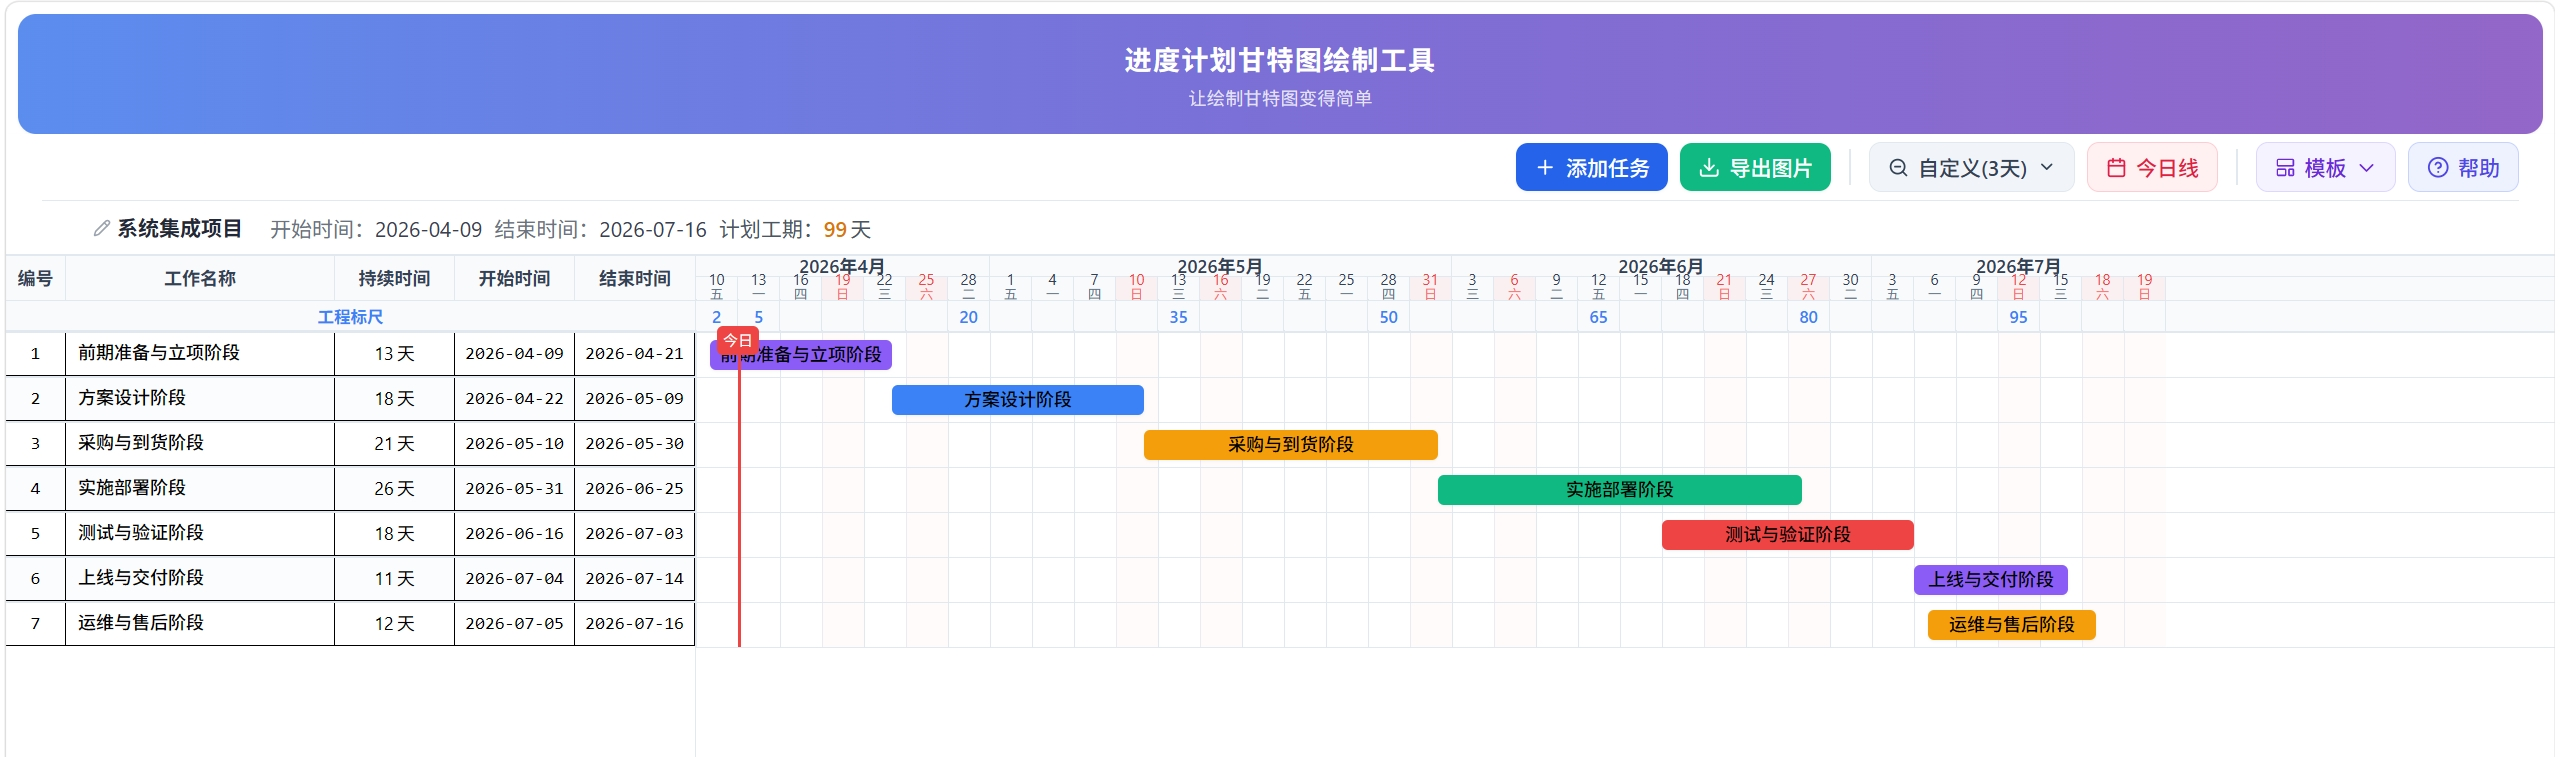
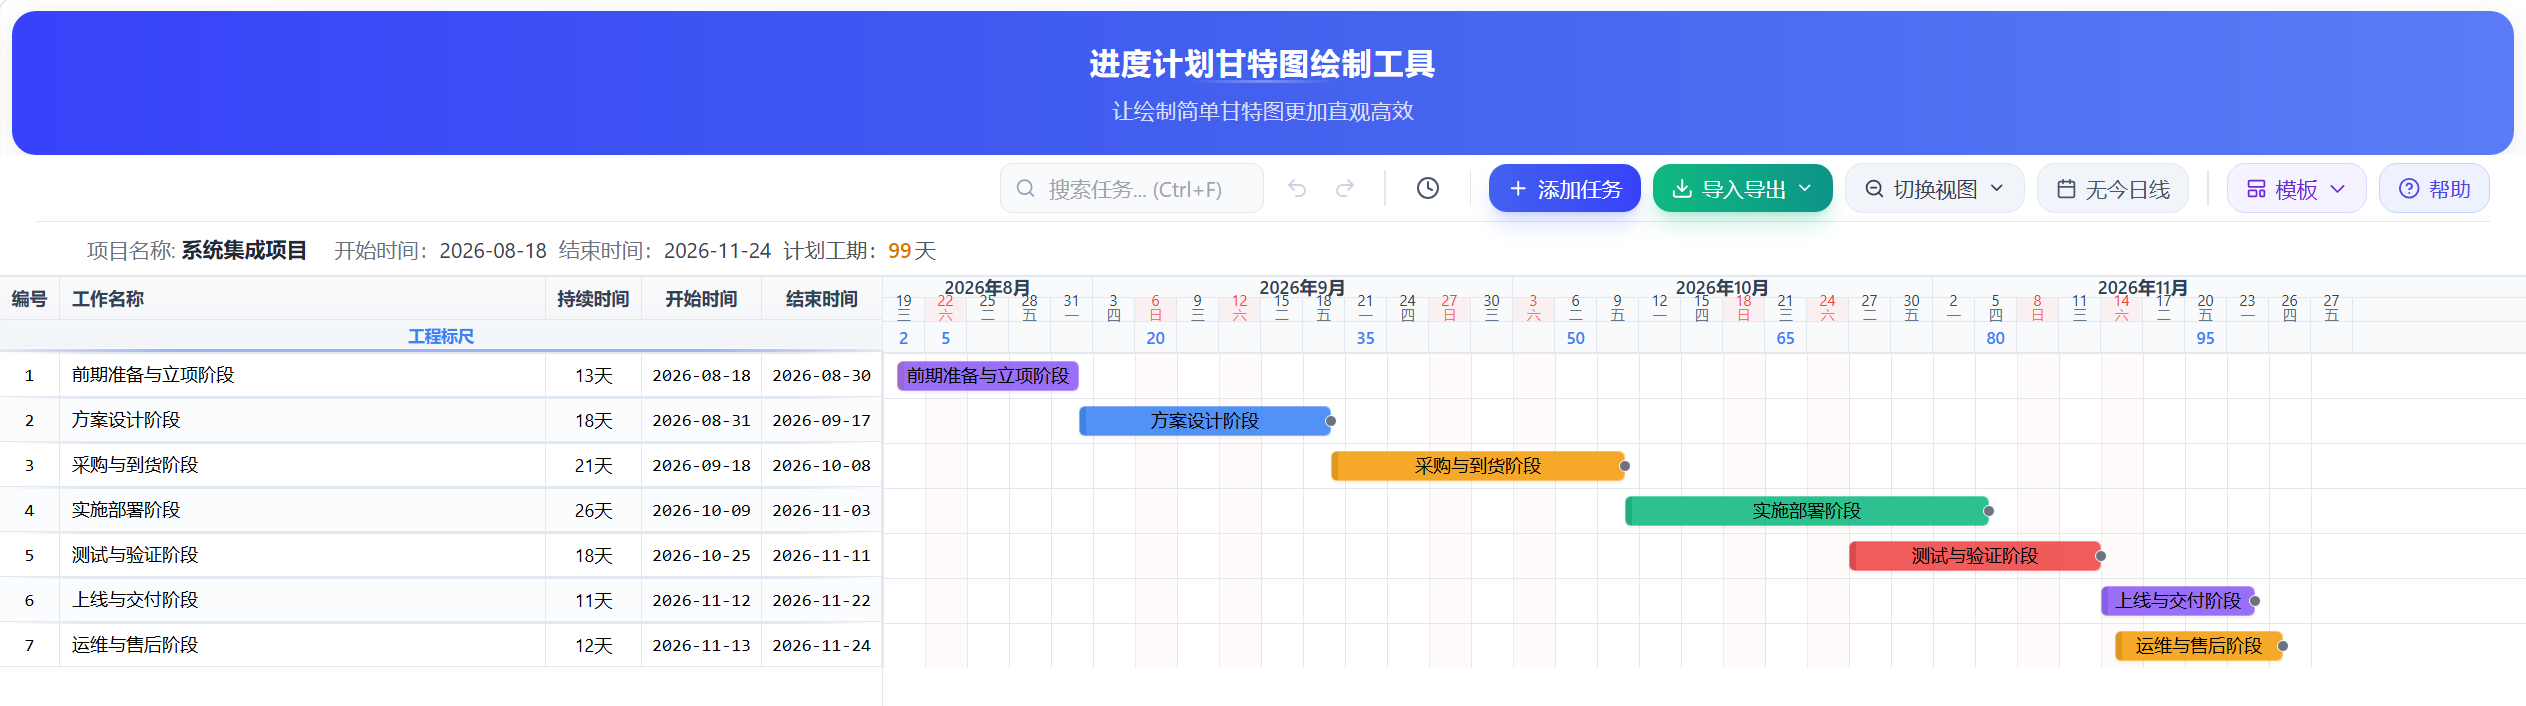
docs(readme): 更新打包输出目录及项目结构说明

diff --git a/README.md b/README.md
@@ -26,7 +26,7 @@ https://dtianchen.github.io/gantt-chart-drawing-tool/
 - **右侧时间轴区域**：三行表头结构 — 第一行年月分组跨列合并 / 第二行日期+星期 / 第三行工程标尺（0/5/10...刻度数字）
 - **甘特图条**：可视化展示各任务的工期范围和进度百分比（不同颜色区分任务）
 - **周末高亮**：浅红色背景标识周六/日列
-- **今日线**：蓝色竖线标记当前日期位置
+
 
 ***
 
@@ -170,12 +170,15 @@ npm run build
 ```bash
 # 方式A：命令行
 npm run electron:build
+# 产物默认输出到仓库上一级目录的 gantt-exe/（见 package.json 的 directories.output）
 
-# 方式B：双击脚本
+# 方式B：双击脚本（推荐，脚本已将输出目录强制改为 dist-exe/）
 "打包EXE.bat"
 ```
 
-产物位于 `dist-exe/` 目录：
+> 注意：命令行方式输出目录为 `../gantt-exe/`，而「打包EXE.bat」脚本通过 `--config.directories.output="dist-exe"` 将输出目录覆盖为 `dist-exe/`。
+
+一键脚本产物位于 `dist-exe/` 目录：
 
 | 文件                           | 类型           | 说明              |
 | ---------------------------- | ------------ | --------------- |
@@ -210,7 +213,7 @@ npm run electron:build
 | 日期处理  | dayjs                       | latest |
 | 图片导出  | html-to-image               | latest |
 | 图标库   | lucide-react                | latest |
-| 桌面打包  | Electron + electron-builder | latest |
+| 桌面打包  | Electron + electron-builder | 33.x / 25.x |
 
 ***
 
@@ -218,8 +221,8 @@ npm run electron:build
 
 ```
 进度工具/
-├── src/                          # 源代码（21个文件）
-│   ├── components/               # React 组件（11个）
+├── src/                          # 源代码（26个文件）
+│   ├── components/               # React 组件（12个）
 │   │   ├── GanttChart/           # 甘特图主容器
 │   │   ├── GanttTimeline/        # 时间轴 + 任务条区域
 │   │   ├── TaskTable/            # 左侧任务列表表格
@@ -230,7 +233,8 @@ npm run electron:build
 │   │   ├── Toolbar/              # 工具栏（添加/导出/视图/今日线/模板/帮助）
 │   │   ├── TaskAddModal/         # 添加任务弹窗
 │   │   ├── TaskEditModal/        # 编辑任务弹窗
-│   │   └── HelpModal/            # 帮助面板（快捷键、使用说明）
+│   │   ├── HelpModal/            # 帮助面板（快捷键、使用说明）
+│   │   └── HistoryPanel/         # 历史记录快照面板（版本 1.1.1 新增）
 │   ├── hooks/                    # 自定义 Hooks（5个）
 │   │   ├── useTaskManager.ts     # 任务管理（CRUD/模板加载/localStorage）
 │   │   ├── useGanttExport.ts     # 甘特图导出为PNG图片
@@ -258,7 +262,7 @@ npm run electron:build
 ├── nginx/                         # 内置便携版 Nginx
 │   ├── nginx.exe                 # Nginx 可执行文件
 │   └── conf/nginx.conf           # 预配置（端口 8080 → dist/）
-├── output/                       # Electron 打包输出目录（electron-builder）
+├── dist-exe/                     # Electron 打包输出目录（一键脚本「打包EXE.bat」输出至此；命令行 npm run electron:build 默认输出到 ../gantt-exe）
 ├── public/
 │   └── favicon.svg                # 网页图标
 ├── screenshot-main.png            # 主界面截图（用于 README 预览）
